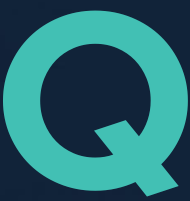
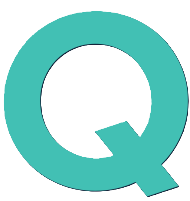
V2 Design (Backs ,Animation ,Typing)

diff --git a/src/components/sections/Hero.jsx b/src/components/sections/Hero.jsx
@@ -1,13 +1,59 @@
+import { useState, useEffect } from 'react'
 import { motion } from 'framer-motion'
 import AnimatedBackground from './AnimatedBackground'
 import Button from '../ui/Button'
-import logo from '../../assets/Main Logo.png'
+import logo from '../../assets/CoorDinQ Logo Wihtout Q Shadow .png'
 
 const fadeUp = (delay = 0) => ({
   initial: { opacity: 0, y: 30 },
   animate: { opacity: 1, y: 0 },
   transition: { duration: 0.8, ease: 'easeOut', delay },
 })
+
+const typingPhrases = [
+  'Build Scalable Software.',
+  'Ship Faster, Together.',
+  'Engineer the Future.',
+  'Code with Confidence.',
+]
+
+function TypingText() {
+  const [phraseIndex, setPhraseIndex] = useState(0)
+  const [charIndex, setCharIndex] = useState(0)
+  const [isDeleting, setIsDeleting] = useState(false)
+
+  const currentPhrase = typingPhrases[phraseIndex]
+  const displayText = currentPhrase.slice(0, charIndex)
+
+  useEffect(() => {
+    const speed = isDeleting ? 40 : 70
+    const pause = !isDeleting && charIndex === currentPhrase.length ? 2000 : 0
+
+    const timeout = setTimeout(() => {
+      if (!isDeleting && charIndex === currentPhrase.length) {
+        setIsDeleting(true)
+      } else if (isDeleting && charIndex === 0) {
+        setIsDeleting(false)
+        setPhraseIndex((prev) => (prev + 1) % typingPhrases.length)
+      } else {
+        setCharIndex((prev) => prev + (isDeleting ? -1 : 1))
+      }
+    }, pause || speed)
+
+    return () => clearTimeout(timeout)
+  }, [charIndex, isDeleting, currentPhrase])
+
+  return (
+    <span className="text-teal">
+      {displayText}
+      <motion.span
+        className="inline-block w-[3px] h-[1em] bg-teal ml-1 align-middle rounded-full"
+        animate={{ opacity: [1, 0] }}
+        transition={{ duration: 0.6, repeat: Infinity, repeatType: 'reverse' }}
+      />
+    </span>
+  )
+}
 
 export default function Hero() {
   return (
@@ -23,14 +69,15 @@ export default function Hero() {
           {...fadeUp(0)}
         />
 
-        {/* Slogan */}
+        {/* Slogan with typing effect */}
         <motion.h1
-          className="text-3xl md:text-5xl lg:text-6xl font-extrabold text-white mt-8 tracking-tight leading-tight"
+          className="text-3xl md:text-5xl lg:text-6xl font-extrabold text-white mt-8 tracking-tight leading-tight min-h-[2.4em]"
           {...fadeUp(0.25)}
         >
-          Coordinate. Collaborate.
-          <br />
-          <span className="text-teal">Conquer.</span>
+          We{' '}
+          <span className="text-teal">
+            <TypingText />
+          </span>
         </motion.h1>
 
         {/* Summary */}
@@ -38,8 +85,9 @@ export default function Hero() {
           className="text-base md:text-lg text-white/60 mt-6 max-w-xl leading-relaxed"
           {...fadeUp(0.45)}
         >
-          Empowering teams with intelligent coordination tools that streamline
-          workflows, enhance collaboration, and deliver results that matter.
+          We design and develop cutting-edge digital products, from robust web
+          platforms to intelligent systems — delivering technology solutions
+          that drive growth and innovation.
         </motion.p>
 
         {/* CTA Buttons */}

diff --git a/src/index.css b/src/index.css
@@ -52,3 +52,33 @@ body {
   -webkit-font-smoothing: antialiased;
   -moz-osx-font-smoothing: grayscale;
 }
+
+/* Text selection highlight */
+::selection {
+  background-color: rgba(58, 191, 176, 0.35);
+  color: #ffffff;
+}
+
+/* Custom scrollbar */
+::-webkit-scrollbar {
+  width: 8px;
+}
+
+::-webkit-scrollbar-track {
+  background: #111C27;
+}
+
+::-webkit-scrollbar-thumb {
+  background: linear-gradient(180deg, #3ABFB0 0%, #2A9A8D 100%);
+  border-radius: 9999px;
+}
+
+::-webkit-scrollbar-thumb:hover {
+  background: linear-gradient(180deg, #5CD4C6 0%, #3ABFB0 100%);
+}
+
+/* Firefox scrollbar */
+* {
+  scrollbar-width: thin;
+  scrollbar-color: #3ABFB0 #111C27;
+}

diff --git a/src/components/layout/Navbar.jsx b/src/components/layout/Navbar.jsx
@@ -56,7 +56,7 @@ export default function Navbar({ scrolled }) {
           </motion.div>
 
           {/* Circular Q - always visible */}
-          <div className="flex items-center justify-center w-9 h-9 rounded-full overflow-hidden bg-navy-dark/50 shrink-0">
+          <div className="flex items-center justify-center w-9 h-9 rounded-full overflow-hidden shrink-0">
             <motion.img
               src={qLogo}
               alt="Q"
